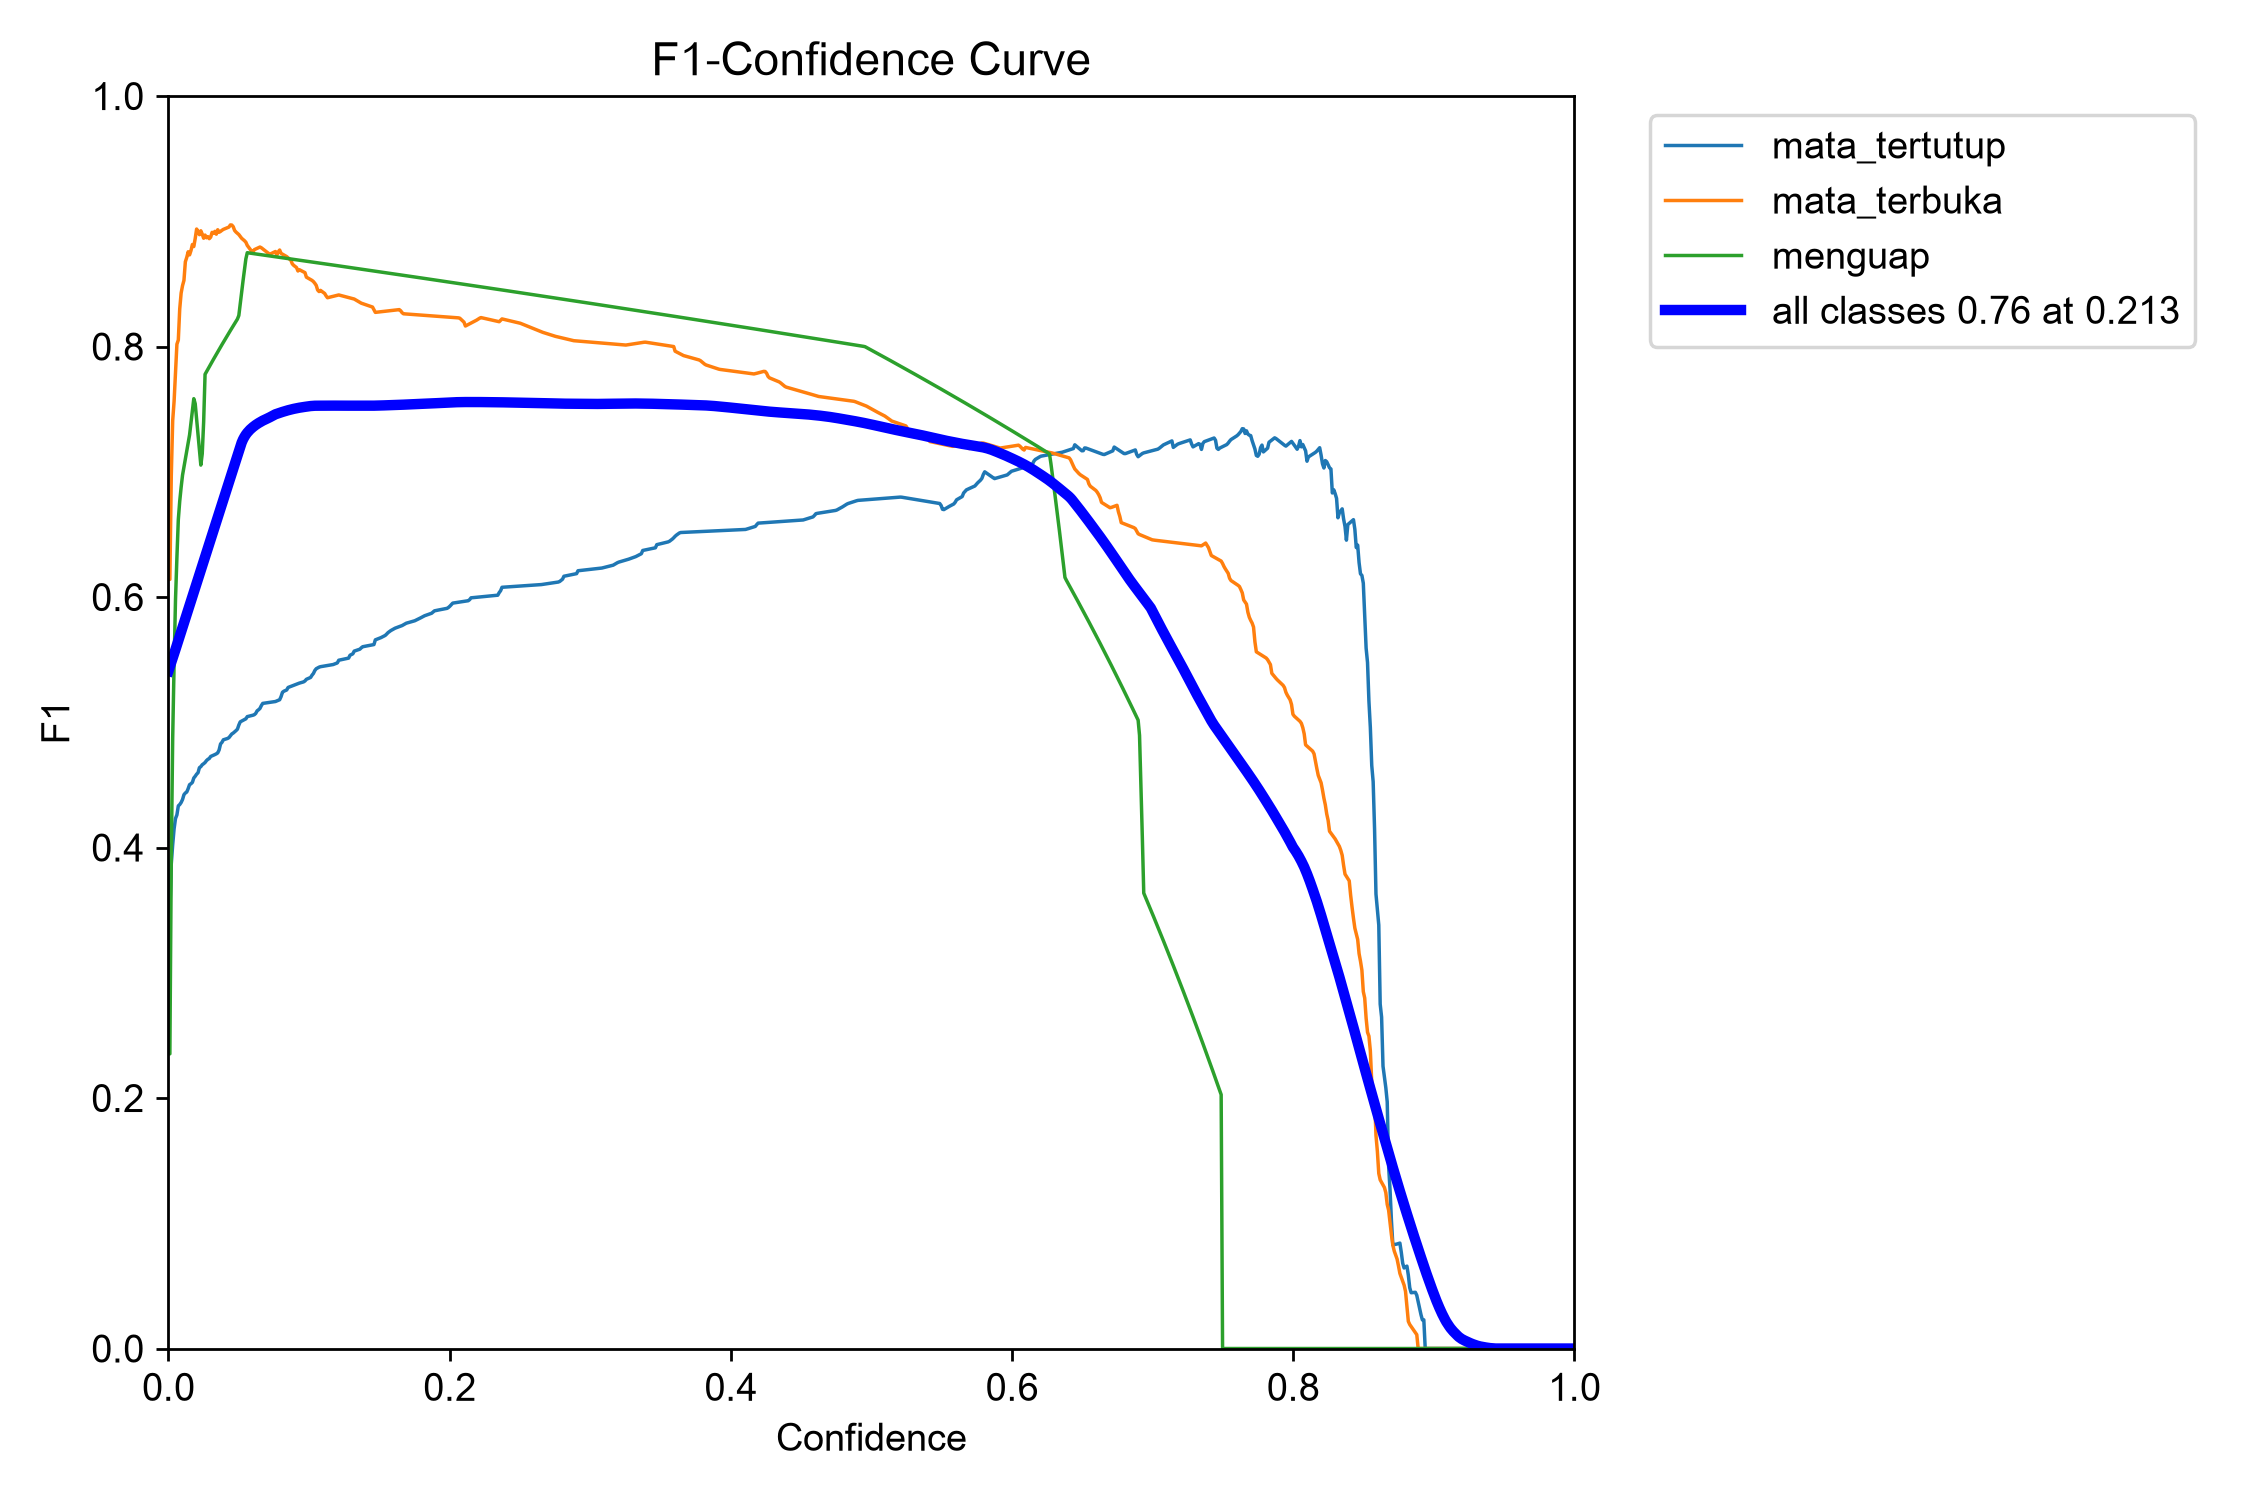
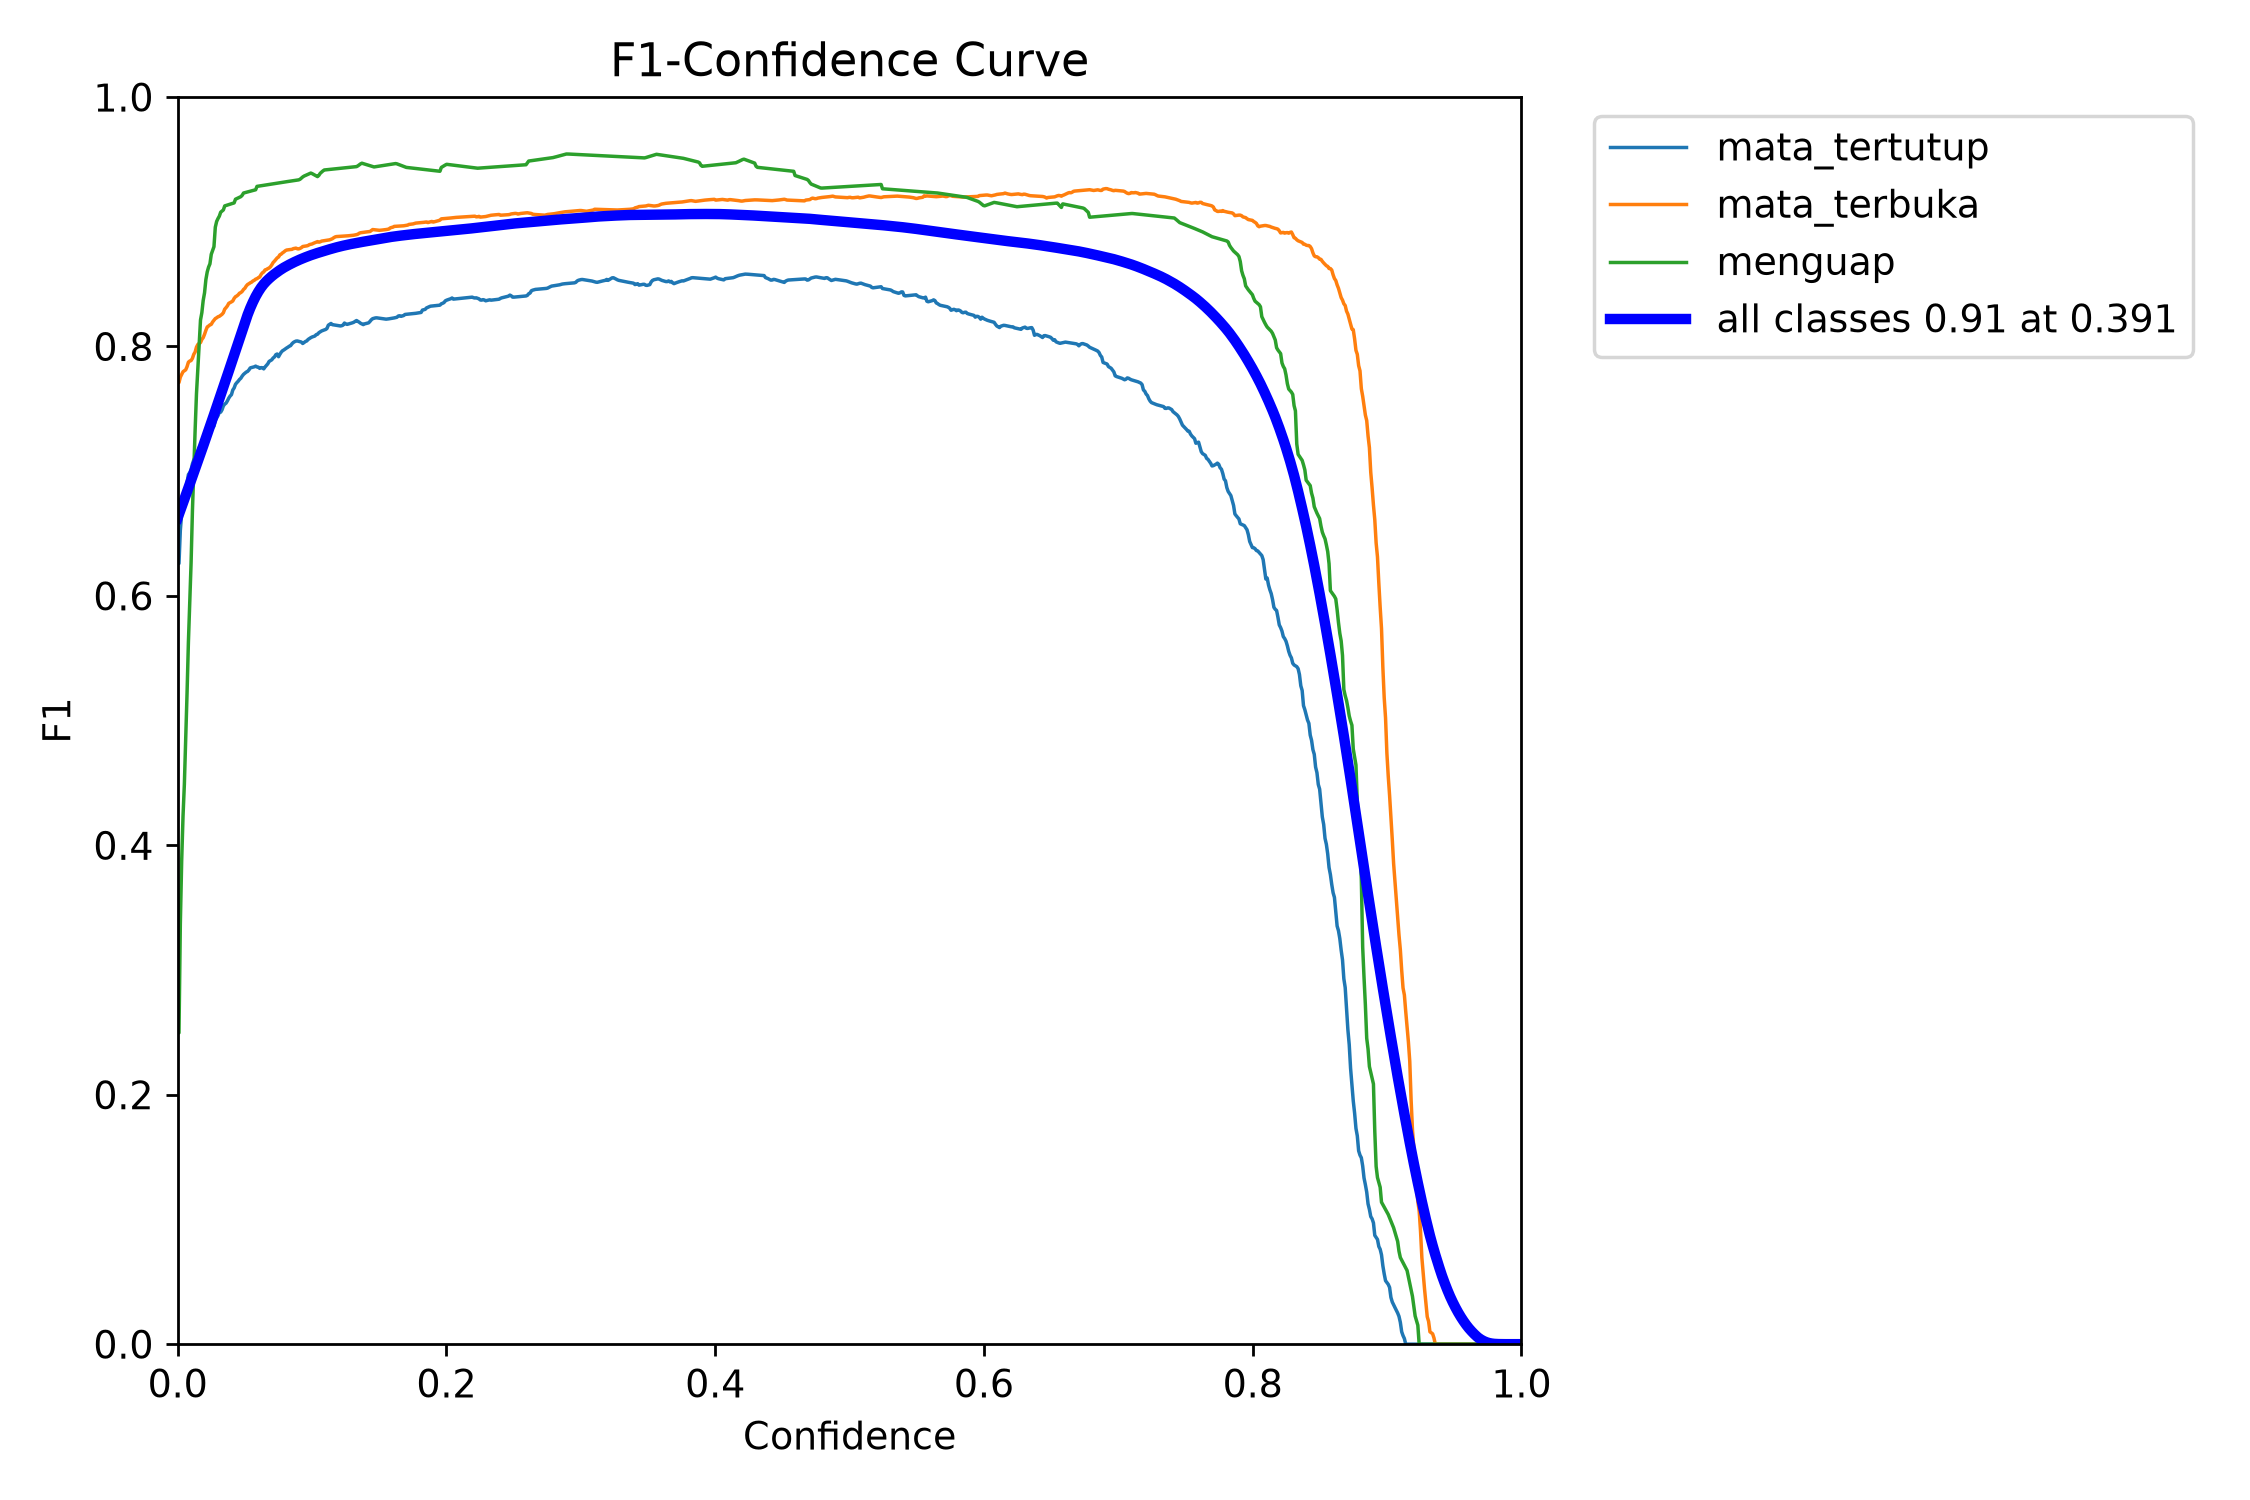
model final: evaluasi ulang vs v1 dan catatan label draf (D-033)
- Hasil training final teman (13 subjek train, epoch terbaik 35) dipasang
  sebagai models/best.pt; v1 disimpan sebagai best.prev.pt (tidak di git).
- docs/eval/perbandingan_model.md: kedua model dievaluasi pada nthu-002
  dan nthu-006 dengan label yang sama. mAP50 0,923->0,956 dan
  0,853->0,951; mata terbuka terbaca tertutup 19,4% -> 9,0%.
- metrics.md/json ditandai label draf: label dibuat ulang oleh
  pra-anotasi tepat sebelum split, belum dikoreksi manual.

diff --git a/docs/dataset_report.md b/docs/dataset_report.md
@@ -1,32 +1,43 @@
 # Laporan Dataset
 
-Dibuat otomatis oleh `training/split_dataset.py` pada 2026-11-12 10:16.
+Dibuat otomatis oleh `training/split_dataset.py` pada 2026-11-26 00:29.
 
 ## Ringkasan per split
 
 | Split | Subjek | Gambar | Negatif | mata_tertutup | mata_terbuka | menguap | kerutan_dahi |
 |---|---|---|---|---|---|---|---|
-| train | nthu-001, nthu-005 | 2557 | 0 | 1196 | 1361 | 155 | 0 |
-| val | nthu-002 | 1232 | 0 | 458 | 774 | 164 | 0 |
-| test | nthu-006 | 278 | 0 | 86 | 192 | 9 | 0 |
-| **total** | 4 | 4067 | 0 | **1740** | **2327** | **328** | **0** |
+| train | nthu-001, rf-driver-yawn, uta-1, uta-10, uta-11, uta-12, uta-2, uta-3, uta-4, uta-5, uta-6, uta-7, uta-9 | 7394 | 0 | 765 | 6629 | 534 | 0 |
+| val | nthu-005, nthu-006, uta-8 | 2045 | 0 | 1060 | 985 | 155 | 0 |
+| test | nthu-002 | 1232 | 0 | 459 | 773 | 164 | 0 |
+| **total** | 17 | 10671 | 0 | **2284** | **8387** | **853** | **0** |
 
 ## Per subjek
 
 | Subjek | Split | Gambar | Kondisi | mata_tertutup | mata_terbuka | menguap | kerutan_dahi |
 |---|---|---|---|---|---|---|---|
 | nthu-001 | train | 1238 | noglasses 620, glasses 618 | 254 | 984 | 11 | 0 |
-| nthu-002 | val | 1232 | glasses 618, noglasses 614 | 458 | 774 | 164 | 0 |
-| nthu-005 | train | 1319 | glasses 699, noglasses 620 | 942 | 377 | 144 | 0 |
-| nthu-006 | test | 278 | glasses 278 | 86 | 192 | 9 | 0 |
+| nthu-002 | test | 1232 | glasses 618, noglasses 614 | 459 | 773 | 164 | 0 |
+| nthu-005 | val | 1319 | glasses 699, noglasses 620 | 943 | 376 | 144 | 0 |
+| nthu-006 | val | 278 | glasses 278 | 85 | 193 | 9 | 0 |
+| rf-driver-yawn | train | 1211 | unknown 1211 | 233 | 978 | 519 | 0 |
+| uta-1 | train | 450 | unknown 450 | 19 | 431 | 2 | 0 |
+| uta-10 | train | 450 | unknown 450 | 35 | 415 | 0 | 0 |
+| uta-11 | train | 447 | unknown 447 | 19 | 428 | 0 | 0 |
+| uta-12 | train | 449 | unknown 449 | 48 | 401 | 0 | 0 |
+| uta-2 | train | 450 | unknown 450 | 10 | 440 | 0 | 0 |
+| uta-3 | train | 450 | unknown 450 | 59 | 391 | 0 | 0 |
+| uta-4 | train | 449 | unknown 449 | 16 | 433 | 0 | 0 |
+| uta-5 | train | 450 | unknown 450 | 14 | 436 | 0 | 0 |
+| uta-6 | train | 450 | unknown 450 | 15 | 435 | 2 | 0 |
+| uta-7 | train | 450 | unknown 450 | 29 | 421 | 0 | 0 |
+| uta-8 | val | 448 | unknown 448 | 32 | 416 | 2 | 0 |
+| uta-9 | train | 450 | unknown 450 | 14 | 436 | 0 | 0 |
 
 ## Peringatan
 
-- Baru 4 subjek; spesifikasi meminta minimal 5 orang berbeda.
-- `menguap`: 328 instance, di bawah target 500.
 - `kerutan_dahi`: 0 instance, di bawah target 500.
 - `kerutan_dahi` tidak ada di split val; metrik kelas ini tidak bisa diukur di sana.
 - `kerutan_dahi` tidak ada di split test; metrik kelas ini tidak bisa diukur di sana.
-- 13 gambar belum punya file label dan dilewati.
+- 29 gambar belum punya file label dan dilewati.
 
 Split dilakukan per subjek (orang), sehingga tidak ada orang yang muncul di dua split.

diff --git a/docs/eval/perbandingan_model.md b/docs/eval/perbandingan_model.md
@@ -1,0 +1,44 @@
+# Perbandingan Model v1 vs Final
+
+Kedua model dievaluasi ulang di Mac yang sama (MPS), memakai **gambar dan label yang sama**. Dua subjek NTHU yang tidak pernah masuk ke bobot training kedua model:
+
+- `nthu-002`: dipakai v1 sebagai val (untuk memilih epoch), dipakai final sebagai test.
+- `nthu-006`: dipakai v1 sebagai test, dipakai final sebagai val.
+
+> ⚠ Label kedua subjek masih **draf** (pra-anotasi MediaPipe yang belum dikoreksi manual). Angka-angka ini mengukur seberapa konsisten model dengan aturan landmark, belum terhadap kebenaran manusia.
+
+## Data training
+
+| | v1 | Final |
+|---|---|---|
+| Subjek di train | 2 (nthu-001, nthu-005) | 13 (nthu-001, 11 orang UTA, Roboflow driver-yawn) |
+| Gambar total | 4.067 | 10.671 |
+| Instance `menguap` | 328 | 853 |
+| Epoch terbaik / durasi | 10 / 53 menit | 35 / 156,5 menit (RTX 3050) |
+
+## mAP (conf 0,001, IoU 0,5, imgsz 640)
+
+| Subjek | Model | P | R | mAP50 | mAP50-95 | mata_tertutup | mata_terbuka | menguap |
+|---|---|---|---|---|---|---|---|---|
+| nthu-002 | v1 | 0,873 | 0,858 | 0,923 | 0,703 | 0,882 | 0,932 | 0,954 |
+| nthu-002 | **final** | 0,896 | 0,917 | **0,956** | **0,835** | 0,928 | 0,952 | 0,987 |
+| nthu-006 | v1 | 0,780 | 0,826 | 0,853 | 0,617 | 0,760 | 0,950 | 0,848 |
+| nthu-006 | **final** | 0,753 | 0,985 | **0,951** | **0,781** | 0,905 | 0,976 | 0,973 |
+
+Kenaikan mAP50-95 yang besar (+0,13 dan +0,16) menunjukkan posisi box jauh lebih tepat.
+
+## Keputusan mata per frame (ambang aplikasi `conf_eye` 0,5)
+
+Satu frame dihitung sekali: kelas mata dengan confidence tertinggi dibandingkan dengan label.
+
+| Model | Terbuka → terbaca tertutup | Tertutup → terbaca terbuka | Benar |
+|---|---|---|---|
+| v1 | 186 dari 957 (19,4%) | 59 dari 545 (10,8%) | 1.246 dari 1.521 (81,9%) |
+| **final** | **86 dari 957 (9,0%)** | 92 dari 545 (16,9%) | **1.322 dari 1.521 (86,9%)** |
+
+- Masalah utama v1 (mata terbuka sering dianggap terpejam, terutama pada orang berkacamata) turun lebih dari setengahnya.
+- Gantinya, model final lebih sering melewatkan mata yang terpejam (kebanyakan di `nthu-002`). Di aplikasi, efek ini diredam fusi 0,6 EAR + 0,4 YOLO, jadi kedipan panjang tetap terbaca dari EAR.
+
+## Kesimpulan
+
+Model final dipakai sebagai `models/best.pt`, sedangkan v1 disimpan sebagai `models/best.prev.pt` (keduanya tidak masuk git). Angka mAP tetap memakai label draf. Untuk Bab IV, tulis catatan ini, atau koreksi label test (`nthu-002`) di CVAT lalu jalankan `training/evaluate.py --label-status final`.

diff --git a/docs/eval/metrics.md b/docs/eval/metrics.md
@@ -1,12 +1,12 @@
 # Evaluasi Detektor Wajah
 
-> ⚠ **Label draf.** Dataset masih memakai pra-anotasi otomatis yang belum dikoreksi manual (lihat `docs/dataset_report.md`). Angka di bawah hanya untuk mengecek pipeline dan **tidak boleh** dipakai di laporan Bab IV.
+> ⚠ **Label draf.** Dataset masih memakai pra-anotasi otomatis yang belum dikoreksi manual (lihat `docs/dataset_report.md`). Angka di bawah hanya untuk mengecek pipeline dan **tidak boleh** dipakai di laporan Bab IV tanpa catatan ini. Perbandingan dengan v1: [perbandingan_model.md](perbandingan_model.md).
 
-- Dievaluasi: 2026-11-19 09:57
-- Bobot: `runs/detect/face_rtx3050/weights/best.pt`
-- Split: `test` (subjek: nthu-006; tidak dipakai saat training)
-- imgsz: 640 · device: mps · input grayscale: True
-- Training: base `yolov8n.pt`, epoch terbaik 10, durasi 53.2 menit di cuda
+- Dievaluasi: 2026-11-26 06:02
+- Bobot: `models/best.pt`
+- Split: `test` (subjek: nthu-002; tidak dipakai saat training)
+- imgsz: 640 · device: cuda · input grayscale: True
+- Training: base `yolov8n.pt`, epoch terbaik 35, durasi 156.5 menit di cuda
 
 ## Per kelas
 
@@ -14,17 +14,16 @@ Target spesifikasi: mAP50 ≥ 0.80 per kelas.
 
 | Kelas | Instance | Precision | Recall | mAP50 | mAP50-95 | Target |
 |---|---|---|---|---|---|---|
-| mata_tertutup | 86 | 0.426 | 1.000 | 0.760 | 0.566 | ❌ |
-| mata_terbuka | 192 | 0.914 | 0.740 | 0.950 | 0.718 | ✅ |
-| menguap | 9 | 1.000 | 0.738 | 0.848 | 0.567 | ✅ |
+| mata_tertutup | 459 | 0.868 | 0.842 | 0.929 | 0.790 | ✅ |
+| mata_terbuka | 773 | 0.864 | 0.978 | 0.953 | 0.853 | ✅ |
+| menguap | 164 | 0.957 | 0.933 | 0.987 | 0.863 | ✅ |
 | kerutan_dahi | 0 | – | – | – | – | – |
-| **semua** | 287 | 0.780 | 0.826 | 0.853 | 0.617 | |
+| **semua** | 1396 | 0.896 | 0.918 | 0.956 | 0.835 | |
 
-Kecepatan per gambar: preprocess 0.2 ms, inferensi 1.8 ms, postprocess 5.9 ms.
+Kecepatan per gambar: preprocess 1.1 ms, inferensi 3.8 ms, postprocess 1.0 ms.
 
 ## Keterbatasan
 
 - Tidak ada instance di split ini, jadi tidak bisa diukur: `kerutan_dahi`.
-- Di bawah target: `mata_tertutup`. Sesuai spesifikasi, catat sebagai keterbatasan dan turunkan bobot indikatornya di `score.weights` bila tetap rendah setelah data diperbaiki.
 
 Gambar: `confusion_matrix.png`, `confusion_matrix_normalized.png`, kurva PR dan F1, `train_results.png`.

diff --git a/docs/DECISIONS.md b/docs/DECISIONS.md
@@ -286,6 +286,12 @@ Keputusan yang diambil saat spesifikasi ambigu atau saat kode menyimpang dari sp
 - **Privasi:** frame hanya ada di memori. Tidak ada tombol screenshot atau rekam. Selama jendela terbuka tampil label "LIVE · tidak disimpan". Saat ditutup, frame dibuang dan listener dilepas. Test memastikan tidak ada `imwrite` atau `QImage.save`.
 - **Kegunaan:** membantu pengguna memahami kenapa Buddy bereaksi, mengecek posisi kamera dan pencahayaan, dan dipakai untuk demo atau gambar Bab IV (pakai wajah sendiri).
 
+### D-033 · Model final menggantikan v1
+- **Keputusan:** `models/best.pt` diganti dengan hasil training final (`runs/detect/face_final`: 13 subjek train, termasuk 11 orang UTA dan Roboflow driver-yawn; epoch terbaik 35). v1 disimpan sebagai `models/best.prev.pt` untuk perbandingan.
+- **Alasan:** pada dua subjek NTHU yang tidak dipakai melatih bobot kedua model, mAP50 naik (0,923→0,956 dan 0,853→0,951), dan kesalahan "mata terbuka terbaca tertutup" turun dari 19,4% ke 9,0% (`docs/eval/perbandingan_model.md`).
+- **Catatan jujur:** label dataset final dibuat ulang oleh pra-anotasi tepat sebelum split dan tidak dikoreksi manual, jadi status labelnya tetap **draf** walau evaluasi aslinya ditandai `final`. `metrics.md` dan `metrics.json` sudah dikoreksi.
+- **Akibat:** model final lebih sering melewatkan mata terpejam (16,9% vs 10,8%), tapi efeknya diredam fusi EAR (D-019). Konfigurasi aplikasi tidak berubah.
+
 ## Catatan untuk FASE 2: dataset yang tersedia
 
 Tiga dataset Kaggle yang dimiliki tim:
